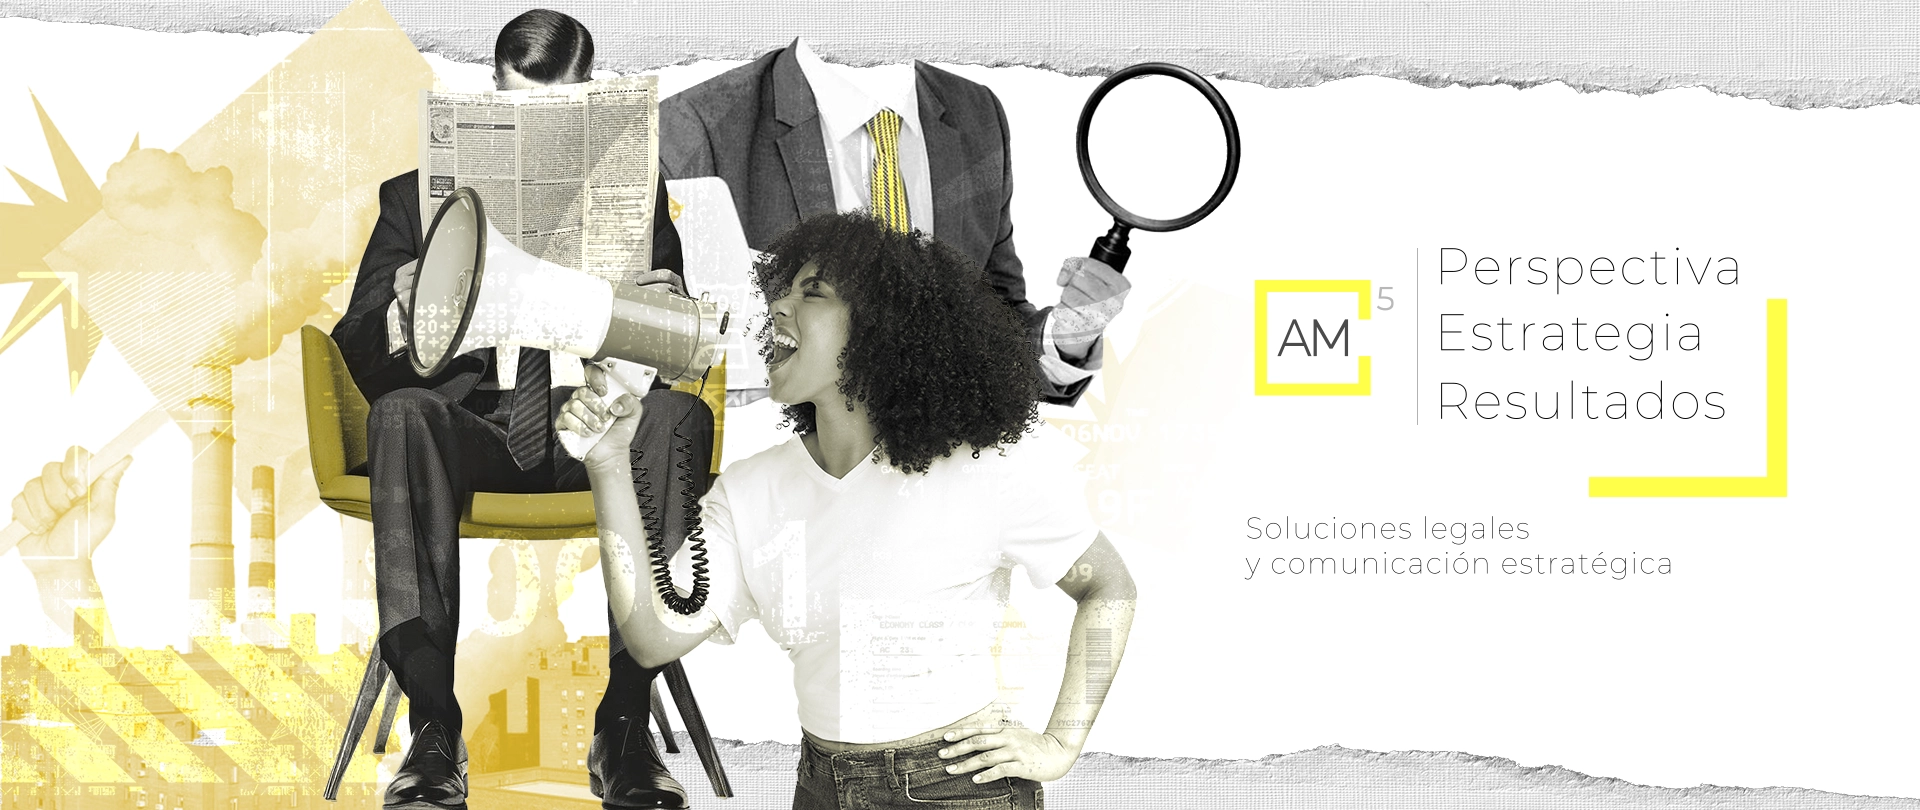
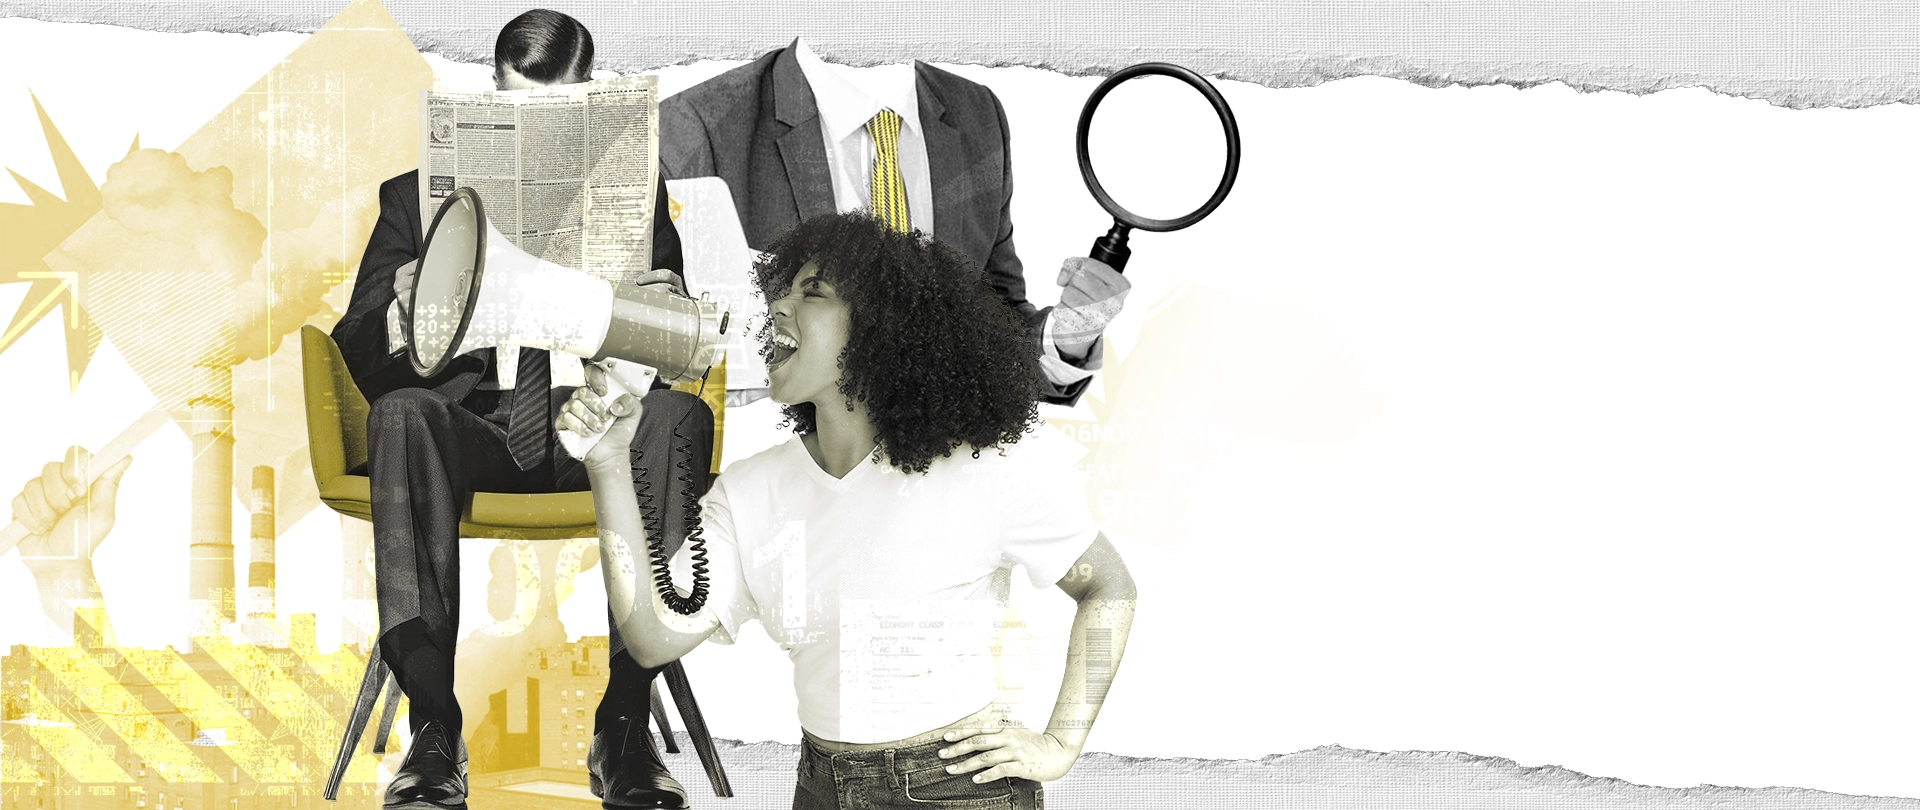
Reajustes de Header y Cabecera.

diff --git a/src/components/Cabecera.jsx b/src/components/Cabecera.jsx
@@ -1,14 +1,27 @@
 //Home: Imagen cabecera
 import Image from 'react-bootstrap/Image';
 import am5cabecera from '../images/imagenhome.webp';
+import am5logo from '../assets/am5-logo.png';
 
 function Cabecera() {
     return (
-        <section id="inicio" className='d-flex flex-column'>
-            <div className="cabecera">
-                <Image src={am5cabecera} alt='Imagen de la cabecera de la página de AM5, startup de soluciones legales y comunicación estratégica.' fluid />
+        <section id="inicio" className='d-flex flex-column' data-component="cabecera">
+            <div className="cabecera" style={{ height: '100vh', backgroundImage: `url(${am5cabecera})`, backgroundSize: 'cover', backgroundPosition: 'center' }}>
+                
+                <div className="text-center col-md-4 offset-md-7-5">
+                    <div className='box-cabecera'>
+                        <div className='row'>
+                            <Image className='col-md-3' src={am5logo} alt='Logo de AM5, startup de soluciones legales y comunicación estratégica.' fluid style={{ width: '140px', height: 'auto', objectFit: 'contain' }} />
+                            
+                            <div className="right-corner"></div>
+                            <h1 className='text-muted col-md-8'>Soluciones legales<br></br> Negocios y<br></br> Comunicación estratégica</h1>
+                        </div>
+                    </div>                  
+                </div>
+                
             </div>
             {/* <div className='cabecera-hr'></div> */}
+            
             <div className='custom-hr rounded w-75 mb-4'></div>
         </section>
     );

diff --git a/src/App.css b/src/App.css
@@ -77,7 +77,7 @@ p {
 #root .App .cabecera img {
   max-width: 100%; /* Ajusta la imagen al ancho del contenedor */
   height: auto; /* Mantiene la proporción de la imagen */
-  margin: 0 auto; /* Centra la imagen horizontalmente */
+  margin: 0 2px 0 auto; /* Centra la imagen horizontalmente */
 }
 
 /* Not in use custom hr!! */
@@ -89,6 +89,42 @@ p {
   background-color: var(--light-grey); /* Color del separador */
   position: relative; /* Aseguramos que no influya en los elementos cercanos */
   left: 0; /* Alineación con el borde izquierdo */
+}
+
+.box-cabecera {
+  position: relative;
+  padding: 20px;
+}
+
+.box-cabecera::after {
+  content: "";
+  position: absolute;
+  background-color: var(--primary-color);
+}
+
+/* Bottom Border (último 25%) */
+.box-cabecera::after {
+  bottom: 0;
+  right: 0;
+  height: 12%; /* Ancho de la línea */
+  width: 20%; /* Longitud del borde inferior */  
+}
+
+[data-component="cabecera"] .box-cabecera .row h1 {
+  font-size: 1.8rem;
+}
+
+.offset-md-7-5 {
+  margin-left: 62.5%;
+}
+
+[data-component="cabecera"] .right-corner {
+  position: absolute;
+  bottom: 0;
+  right: 0;
+  width: 1%; /* Ancho de la línea */  
+  height: 50%; /* Longitud del borde derecho */  
+  background-color: var(--primary-color);
 }
 
 /* ABOUT ME */

diff --git a/src/index.css b/src/index.css
@@ -26,31 +26,17 @@ body {
   text-align: center;
 } */
 
-h1 {
-  color: var(--dark-gray);
-  border: 5px solid var(--primary-color);
-  border-right: none;
-  text-align: center;
-  position: relative; /* Necesario para posicionar el pseudo-elemento */
+[data-component="cabecera"] h1 {
+  color: inherit;
+  position: inherit;
+  border-left: 1px solid #cecece !important;
+  text-align: start;
+  font-size: 1.5rem;
 }
 
-h1::after {
-  content: '';
-  position: absolute;
-  top: 0;
-  right: 0; /* Se aplica al borde derecho */
-  height: 100%; 
-  width: 5px; 
-  background: linear-gradient(
-    to bottom,
-    var(--primary-color) 0%,
-    var(--primary-color) 25%,
-    transparent 25%,
-    transparent 75%,
-    var(--primary-color) 75%,
-    var(--primary-color) 100%
-  ); /* Degradado para mostrar solo el primer y último 25% */
-  z-index: -1; /* Asegúrate de que quede detrás del texto */
+h1 {
+  color: var(--dark-gray);
+  text-align: center;
 }
 
 h2 {

diff --git a/src/components/Header.jsx b/src/components/Header.jsx
@@ -4,7 +4,7 @@ import logo from '../assets/am5-logo.png';
 
 function Header() {
     return (
-        <Navbar sticky="top" bg="light" expand="lg" className="Navbar">
+        <Navbar sticky="top" bg="white" expand="lg" className="Navbar">
             <Navbar.Brand href="#home" className="logo">
                 <img src={logo} alt="Imagen del logo de la start-up AM5 con su característico toque de color amarillo" />
             </Navbar.Brand>

diff --git a/src/components/AboutMe.jsx b/src/components/AboutMe.jsx
@@ -43,7 +43,7 @@ function AboutMe() {
     <div className='d-flex flex-column'>
       <div className='col-12' id='about'>
         <Col md={{ span: 2, offset: 5 }}>
-          <h1 className='mb-4'>Sobre Mí</h1>
+          <h2 className='mb-4'>Sobre Mí</h2>
         </Col>
       </div>
       <div className="d-flex flex-column flex-lg-row">
